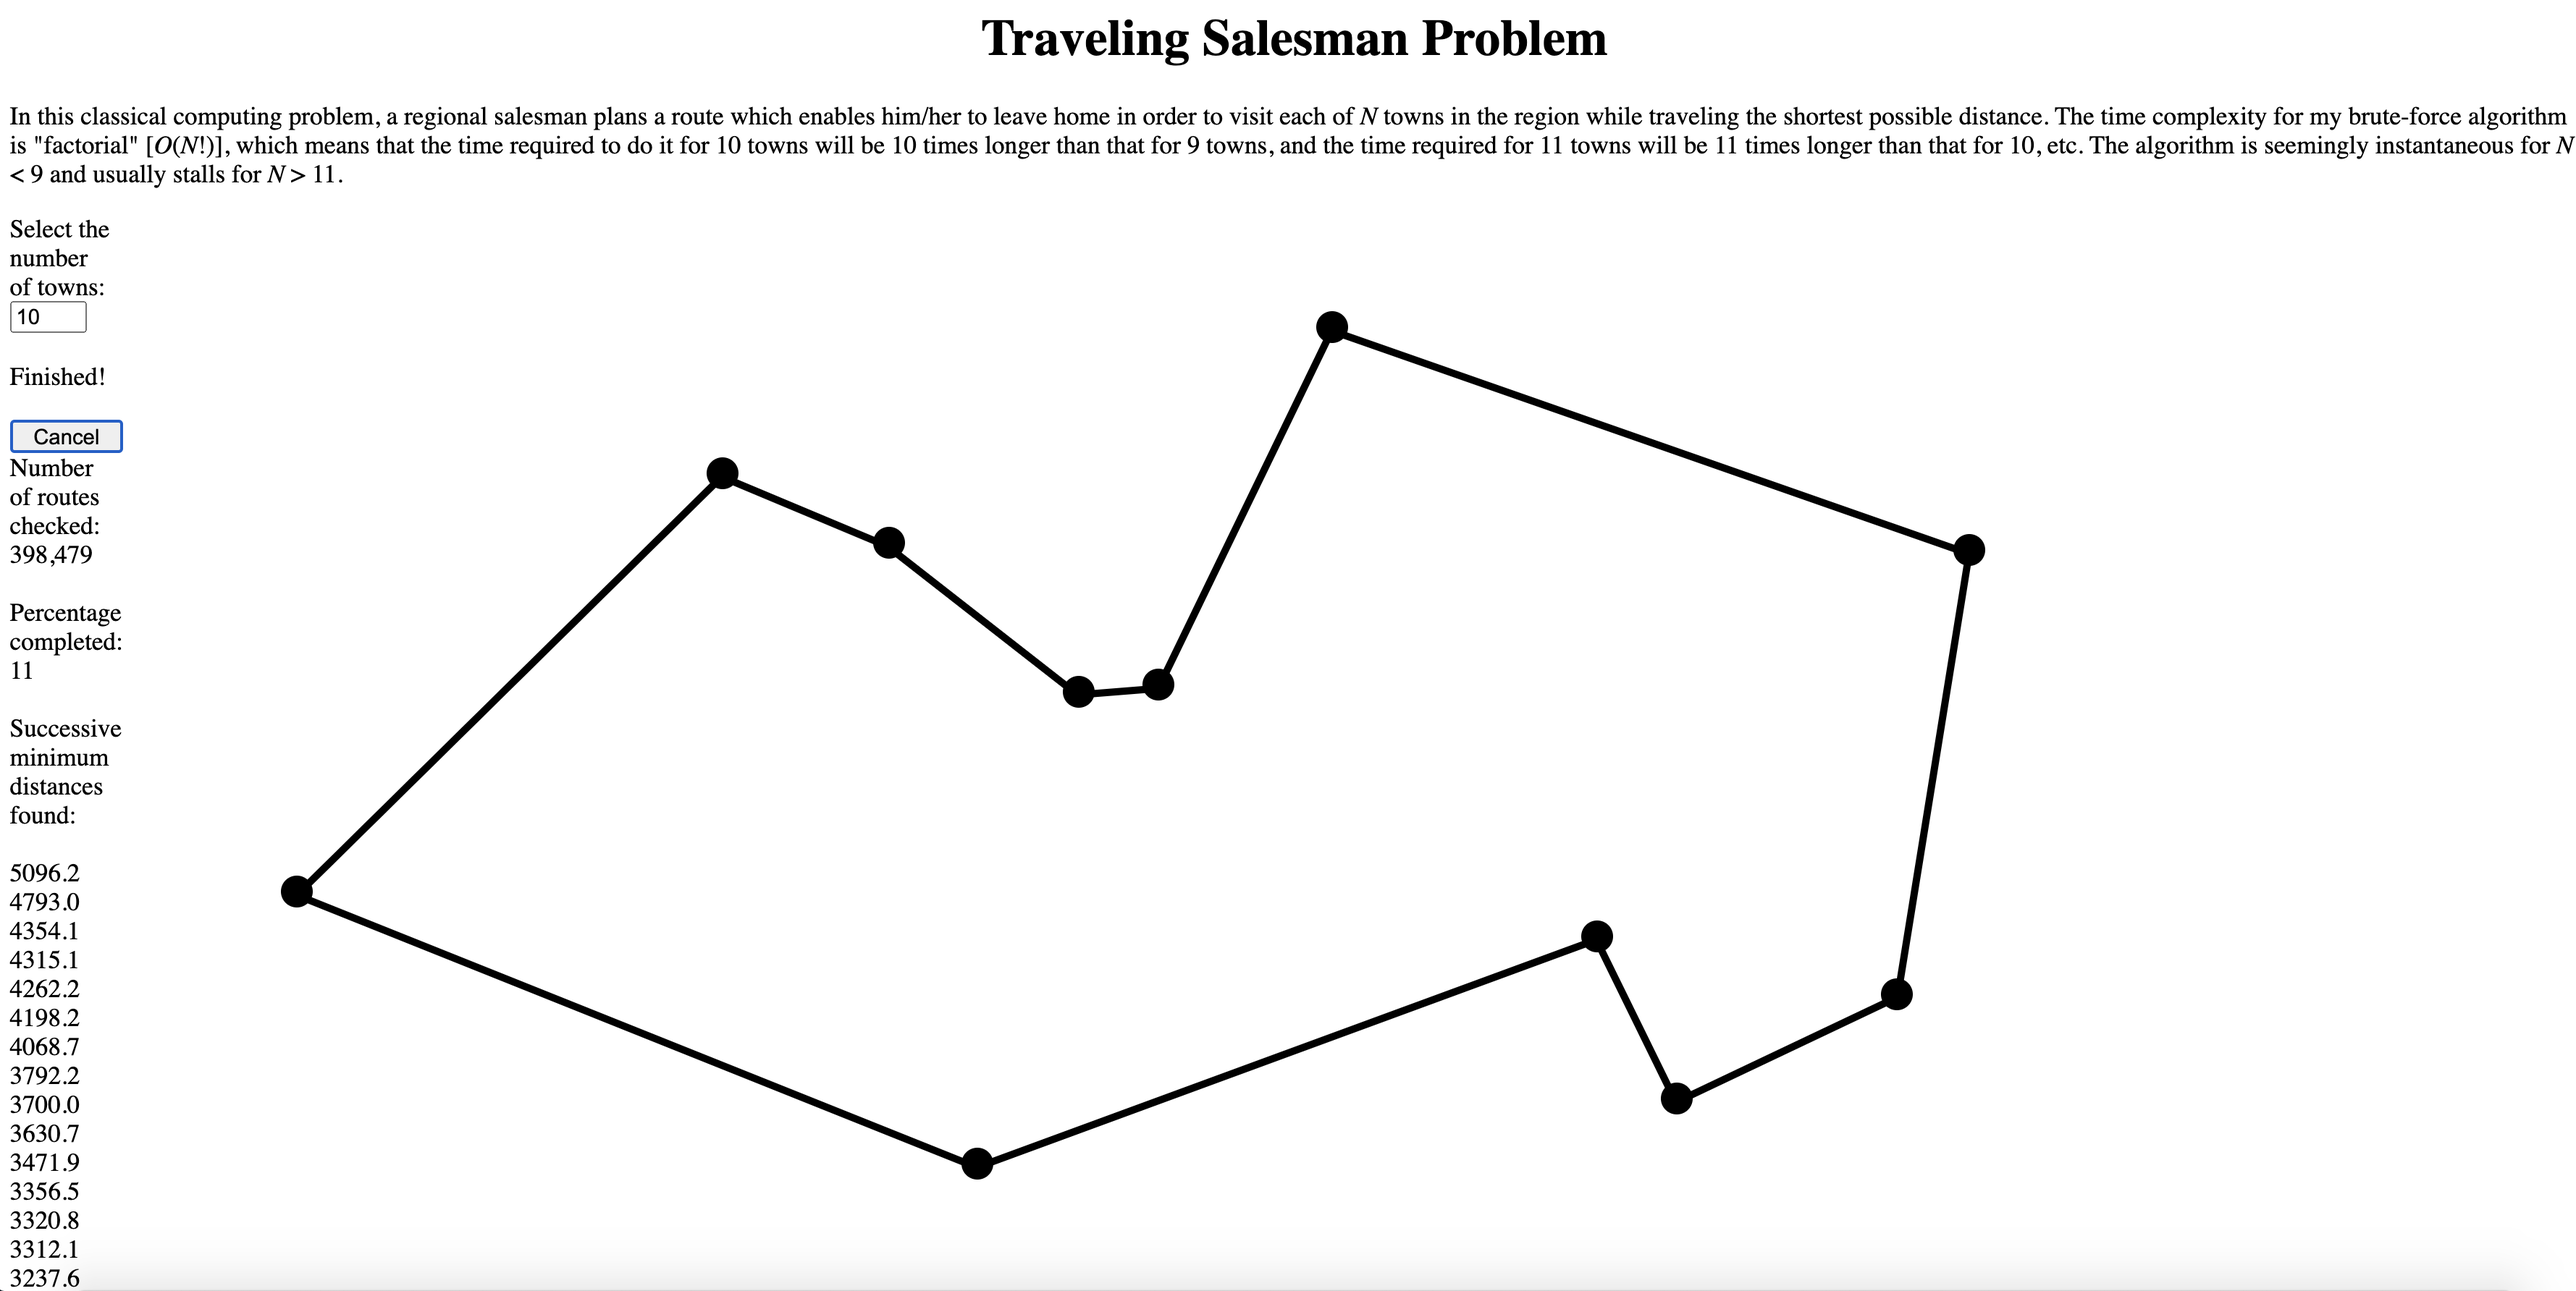
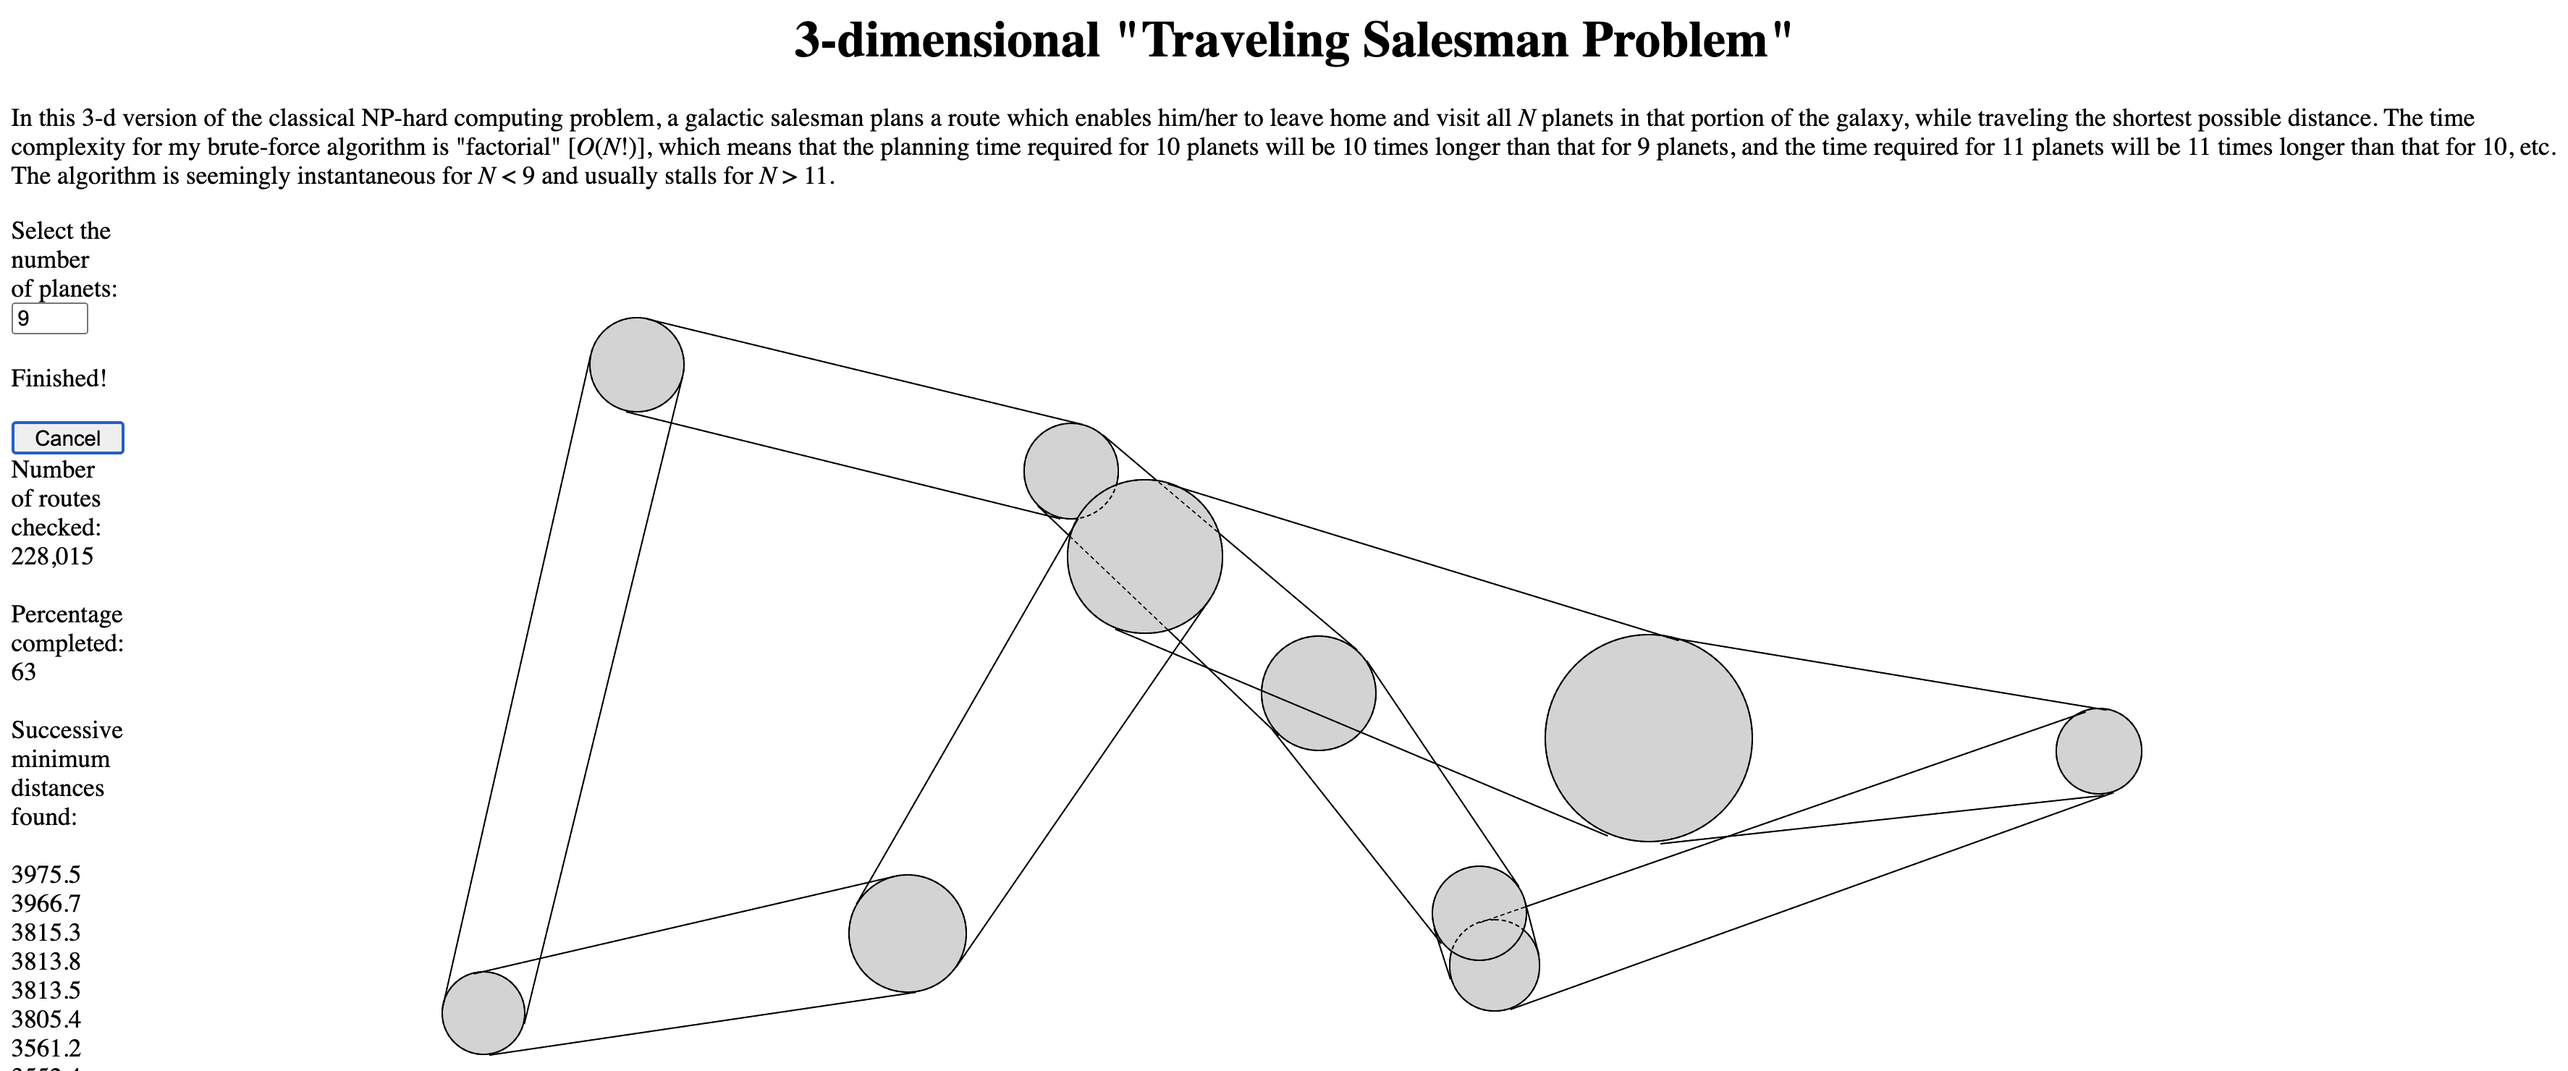
Prepare to insert radio buttons for 2d - 3d control.

diff --git a/src/App.js b/src/App.js
@@ -71,7 +71,6 @@ const App = () => {
       newItin.unshift(n);
       newItin.push(n);
       console.log(newItin.join(''), distanceTot)
-      // console.log(newItin);
       if(distanceTot < newDistanceMin[0]) {
         setItin([newItin, ...itin]);
         setDistanceMin([distanceTot, ...newDistanceMin]);
@@ -97,12 +96,12 @@ const App = () => {
       <div className="top">
         <p align="center"><h1>3-dimensional "Traveling Salesman Problem"</h1></p>
         <p>
-          In this classical computing problem, a regional salesman plans a route which enables him/her to leave home in order to visit all <i>N</i> towns in the region while traveling the shortest possible distance.  The time complexity for my brute-force algorithm is "factorial" [<i>O</i>(<i>N</i>!)], which means that the  time required to do it for 10 towns will be 10 times longer than that for 9 towns, and the time required for 11 towns will be 11 times longer than that for 10, etc.  The algorithm is seemingly instantaneous for <i>N</i> &lt; 9 and usually stalls for <i>N</i> &gt; 11.
+          In this 3-d version of the classical NP-hard computing problem, a galactic salesman plans a route which enables him/her to leave home and visit all <i>N</i> planets in that portion of the galaxy, while traveling the shortest possible distance.  The time complexity for my brute-force algorithm is "factorial" [<i>O</i>(<i>N</i>!)], which means that the planning time required for 10 planets will be 10 times longer than that for 9 planets, and the time required for 11 planets will be 11 times longer than that for 10, etc.  The algorithm is seemingly instantaneous for <i>N</i> &lt; 9 and usually stalls for <i>N</i> &gt; 11.
         </p>
       </div>
       <div className="container">
         <div className="left">
-          <div>Select the<br/> number<br/> of towns:</div>
+          <div>Select the<br/> number<br/> of planets:</div>
           <input type="number" min="0" step="1" value={n}
             onChange={e => setN(Number(e.target.value))}
           /><br/>

diff --git a/public/index.html b/public/index.html
@@ -7,8 +7,8 @@
     <meta property='og:title' content='Traveling Salesman Problem'/>
     <meta property="og:image" content="./screenshot.png" />
     <meta property='og:description' content='Front-end app using JavaScript + React enables user to play around with the classic "traveling salesman problem".'/>
-    <meta property="og:image:width" content="3558" />
-    <meta property="og:image:height" content="1784" />
+    <meta property="og:image:width" content="3548" />
+    <meta property="og:image:height" content="1480" />
     <meta property='og:url' content='https://traveling-salesman-problem.herokuapp.com/'/>
     <title>Traveling salesman problem</title>
     <meta name="author" content="Peter Knipp">

diff --git a/TODO.md b/TODO.md
@@ -1,0 +1,6 @@
+    * allow user to toggle between 2d and 3d
+    * allow user to choose points by clicking or using Math.random.
+    * fix react
+    * use transitions as route is updated
+    * change "town" to "planet" everywhere for variable names?
+    * If clicking 3-d town coordinates, then let the town's z-coordinate be proportional to the amount of time that the mouse is clicked.
